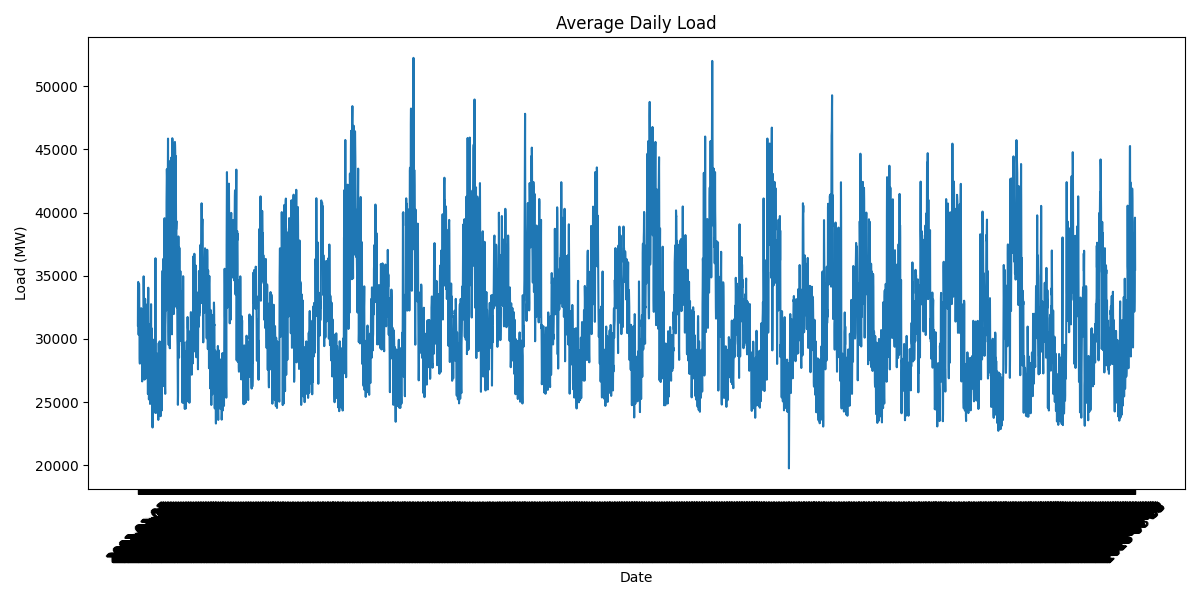
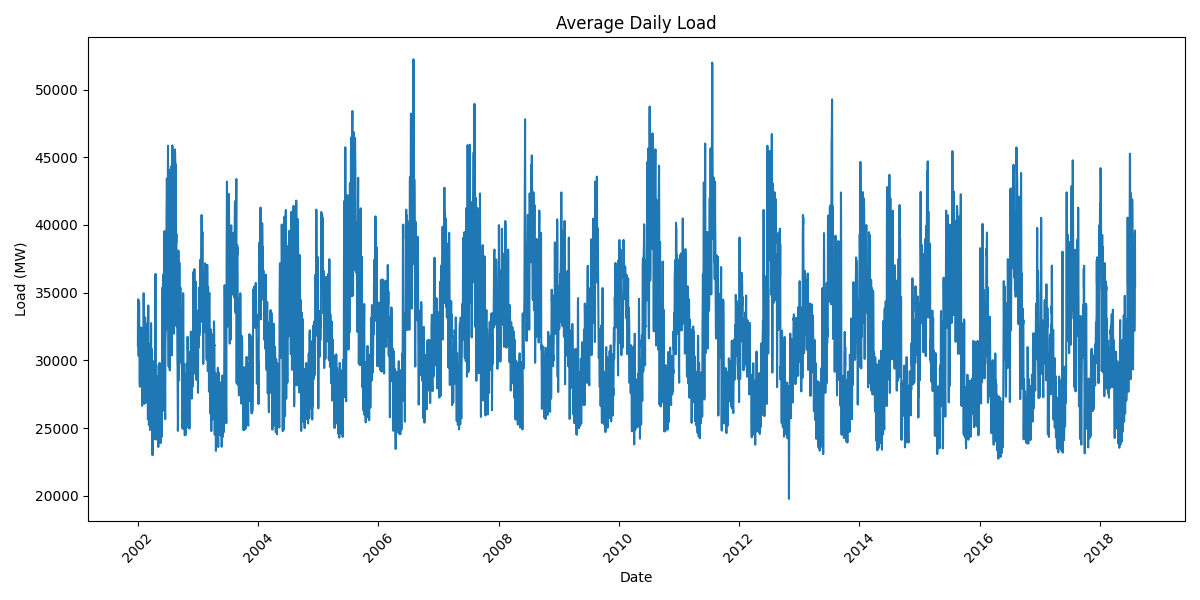
Miniproject(Energy Consumption Monitoring) IEIPL3863

diff --git a/energy_Consumption.py b/energy_Consumption.py
@@ -8,6 +8,11 @@ df = pd.read_csv("C:/Users/bkdee/Downloads/energy.csv")  # Replace with actual f
 df['Datetime'] = pd.to_datetime(df['Datetime'], format='%d-%m-%Y %H:%M')
 df['Hour'] = df['Datetime'].dt.hour
 df['Day'] = df['Datetime'].dt.date
+device_types = ['AC', 'Heater', 'Fridge', 'TV', 'Washer']
+df['Device_Type'] = [device_types[i % len(device_types)] for i in range(len(df))]
+regions = ['North', 'South', 'East', 'West', 'Central']
+df['Region'] = [regions[i % len(regions)] for i in range(len(df))]
+
 
 # Rename PJME_MW column
 df.rename(columns={'PJME_MW': 'Load'}, inplace=True)
@@ -25,16 +30,23 @@ ORDER BY Hour
 """, conn)
 
 # 2. Average Daily Load
-avg_daily = pd.read_sql_query("""
-SELECT Day, AVG(Load) as Avg_Daily_Load
-FROM (SELECT DATE(Datetime) as Day, Load FROM energy)
-GROUP BY Day
-ORDER BY Day
-""", conn)
+# Calculate Average Weekly Load
+df['Week_Start'] = df['Datetime'].dt.to_period('W').apply(lambda r: r.start_time)
+weekly_avg = df.groupby('Week_Start')['Load'].mean().reset_index().rename(columns={'Load': 'Avg_Weekly_Load'})
 
+plt.figure(figsize=(12,6))
+plt.plot(weekly_avg['Week_Start'], weekly_avg['Avg_Weekly_Load'], marker='o', linestyle='-')
+plt.title("Average Weekly Load")
+plt.xlabel("Week Start Date")
+plt.ylabel("Load (MW)")
+plt.xticks(rotation=45)
+plt.tight_layout()
+plt.grid(True)
+plt.show()
 # --- Python Visualizations ---
 
 # Plot 1: Average Daily Load
+avg_daily = df.groupby('Day')['Load'].mean().reset_index().rename(columns={'Load': 'Avg_Daily_Load'})
 plt.figure(figsize=(12,6))
 plt.plot(avg_daily['Day'], avg_daily['Avg_Daily_Load'])
 plt.title("Average Daily Load")
@@ -46,7 +58,7 @@ plt.show()
 
 # Plot 2: Peak Usage Time (Hourly)
 plt.figure(figsize=(10,5))
-sns.barplot(data=peak_usage, x='Hour', y='Peak_Load', palette='viridis')
+sns.barplot(data=peak_usage, x='Hour', y='Peak_Load')
 plt.title("Peak Usage by Hour")
 plt.xlabel("Hour of Day")
 plt.ylabel("Peak Load (MW)")
@@ -62,5 +74,29 @@ sns.heatmap(pivot, cmap='YlOrRd')
 plt.title("Heatmap of Energy Load by Hour and Date")
 plt.xlabel("Date")
 plt.ylabel("Hour")
+plt.tight_layout()
+plt.show()
+
+# Plot 3: Average Load by Device Type
+device_avg = df.groupby('Device_Type')['Load'].mean().reset_index()
+
+plt.figure(figsize=(12, 6))
+sns.barplot(data=device_avg, x='Device_Type', y='Load', palette='mako')
+plt.title("Average Load by Device Type")
+plt.xlabel("Device Type")
+plt.ylabel("Average Load (MW)")
+plt.xticks(rotation=45)
+plt.tight_layout()
+plt.show()
+
+# Plot 4: Energy Usage Over Time by Region
+region_time = df.groupby(['Datetime', 'Region'])['Load'].sum().reset_index()
+plt.figure(figsize=(14, 6))
+sns.lineplot(data=region_time, x='Datetime', y='Load', hue='Region', palette='tab10')
+plt.title("Energy Usage Over Time by Region")
+plt.xlabel("Time")
+plt.ylabel("Load (MW)")
+plt.xticks(rotation=45)
+plt.legend(title="Region")
 plt.tight_layout()
 plt.show()
